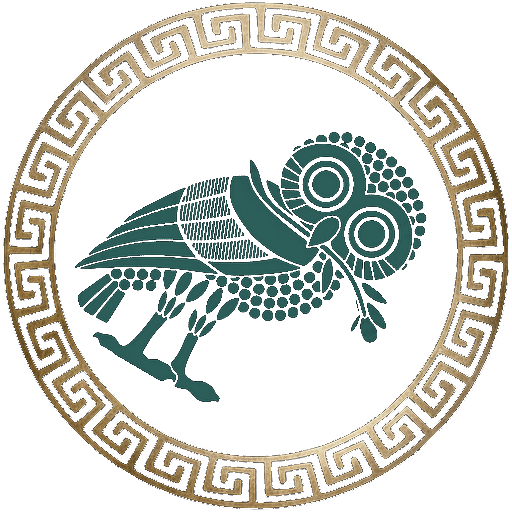
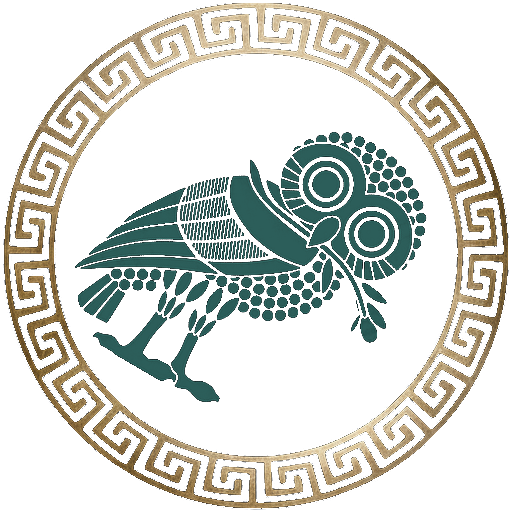
Correctly layer visual elements and clean up image assets
Update component to adjust z-index values for layered images, add new cleaned image assets, and update descriptive text for asset layers.

Replit-Commit-Author: Agent
Replit-Commit-Session-Id: 04d5841c-d248-48c3-af77-ece889ca9a93
Replit-Commit-Checkpoint-Type: full_checkpoint
Replit-Commit-Event-Id: b99012dd-f625-4b58-ba18-7507ec6d8138
Replit-Commit-Screenshot-Url: https://storage.googleapis.com/screenshot-production-us-central1/f2c73519-b3f3-4c33-90b1-699f833acae8/04d5841c-d248-48c3-af77-ece889ca9a93/T3JlsW4
Replit-Helium-Checkpoint-Created: true

diff --git a/artifacts/mockup-sandbox/src/components/mockups/owl-palette/NonNormativePalette.tsx b/artifacts/mockup-sandbox/src/components/mockups/owl-palette/NonNormativePalette.tsx
@@ -17,18 +17,18 @@ export default function NonNormativePalette() {
       overflow: "hidden",
       isolation: "isolate",
     }}>
-      <img src={owlRing} alt="" style={{
-        position: "absolute", inset: 0,
-        width: "100%", height: "100%",
-        zIndex: 2,
-        display: "block",
-        pointerEvents: "none",
-      }} />
       <img src={owlFigure} alt="NON-NORMATIVE owl" style={{
         position: "absolute",
         left: "50%", top: "50%",
         width: "72.27%", height: "72.27%",
         transform: "translate(-50%, -50%)",
+        zIndex: 2,
+        display: "block",
+        pointerEvents: "none",
+      }} />
+      <img src={owlRing} alt="" style={{
+        position: "absolute", inset: 0,
+        width: "100%", height: "100%",
         zIndex: 3,
         display: "block",
         pointerEvents: "none",
@@ -43,11 +43,11 @@ export default function NonNormativePalette() {
         NON-NORMATIVE OWL — Layered Asset Kit
       </h1>
       <p style={{ textAlign: "center", fontSize: "10px", color: "#888", marginBottom: "28px" }}>
-        Layer stack: background plate (container bg) → ring (z:2) → owl figure (z:3)
+        L1 Background Plate (bottom) → L2 Owl Figure (middle) → L3 Ring Frame (top)
       </p>
 
       <h2 style={{ textAlign: "center", fontSize: "11px", color: "#555", textTransform: "uppercase", letterSpacing: "0.1em", marginBottom: 16 }}>
-        Individual Layers (on checkerboard)
+        Individual Layers
       </h2>
       <div style={{ display: "flex", gap: 32, justifyContent: "center", marginBottom: 36 }}>
         <div style={{ textAlign: "center" }}>
@@ -55,26 +55,26 @@ export default function NonNormativePalette() {
             <div style={{ width: 140, height: 140, borderRadius: "50%", background: "#1f3f3b" }} />
           </div>
           <div style={{ fontSize: 9, fontWeight: "bold", marginTop: 8 }}>L1: Background Plate</div>
-          <div style={{ fontSize: 8, color: "#999" }}>Opaque circle · #1f3f3b</div>
-        </div>
-        <div style={{ textAlign: "center" }}>
-          <div style={{ width: 160, height: 160, background: checkerBg, borderRadius: 8, display: "flex", alignItems: "center", justifyContent: "center" }}>
-            <img src={owlRing} alt="Ring" style={{ width: 140, height: 140 }} />
-          </div>
-          <div style={{ fontSize: 9, fontWeight: "bold", marginTop: 8 }}>L2: Ring</div>
-          <div style={{ fontSize: 8, color: "#999" }}>Transparent PNG · z-index: 2</div>
+          <div style={{ fontSize: 8, color: "#999" }}>Opaque circle · bottom</div>
         </div>
         <div style={{ textAlign: "center" }}>
           <div style={{ width: 160, height: 160, background: checkerBg, borderRadius: 8, display: "flex", alignItems: "center", justifyContent: "center" }}>
             <img src={owlFigure} alt="Owl figure" style={{ width: 100, height: 100 }} />
           </div>
-          <div style={{ fontSize: 9, fontWeight: "bold", marginTop: 8 }}>L3: Owl Figure</div>
-          <div style={{ fontSize: 8, color: "#999" }}>Transparent PNG · z-index: 3</div>
+          <div style={{ fontSize: 9, fontWeight: "bold", marginTop: 8 }}>L2: Owl Figure</div>
+          <div style={{ fontSize: 8, color: "#999" }}>z-index: 2 · middle</div>
+        </div>
+        <div style={{ textAlign: "center" }}>
+          <div style={{ width: 160, height: 160, background: checkerBg, borderRadius: 8, display: "flex", alignItems: "center", justifyContent: "center" }}>
+            <img src={owlRing} alt="Ring frame" style={{ width: 140, height: 140 }} />
+          </div>
+          <div style={{ fontSize: 9, fontWeight: "bold", marginTop: 8 }}>L3: Ring Frame</div>
+          <div style={{ fontSize: 8, color: "#999" }}>z-index: 3 · top</div>
         </div>
       </div>
 
       <h2 style={{ textAlign: "center", fontSize: "11px", color: "#555", textTransform: "uppercase", letterSpacing: "0.1em", marginBottom: 16 }}>
-        Composed — Proper Layer Stack
+        Composed — L1 + L2 + L3
       </h2>
       <div style={{ display: "flex", gap: 28, justifyContent: "center", flexWrap: "wrap", marginBottom: 36 }}>
         {[
@@ -94,7 +94,7 @@ export default function NonNormativePalette() {
       </div>
 
       <h2 style={{ textAlign: "center", fontSize: "11px", color: "#555", textTransform: "uppercase", letterSpacing: "0.1em", marginBottom: 16 }}>
-        Flattened Complete Asset — Transparency Proof
+        Flattened Composite — Transparency Proof
       </h2>
       <div style={{ display: "flex", gap: 32, justifyContent: "center" }}>
         {[
